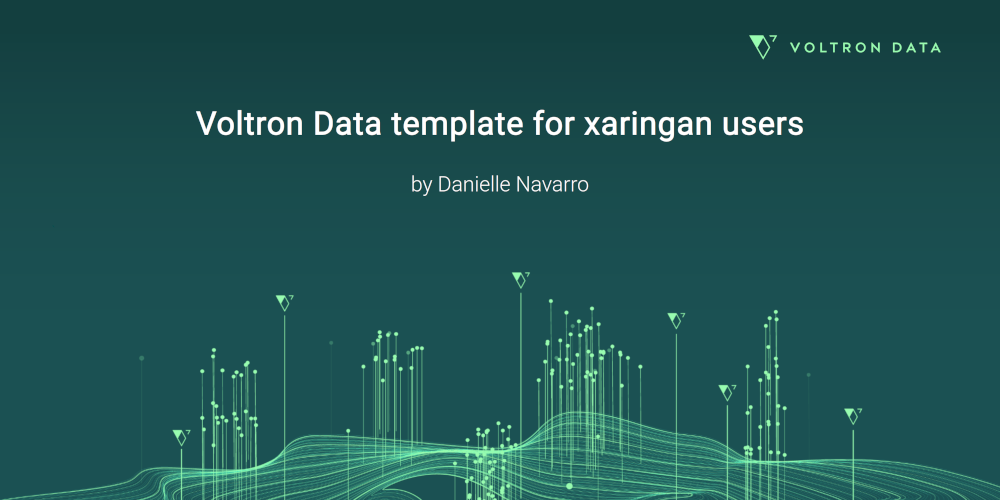
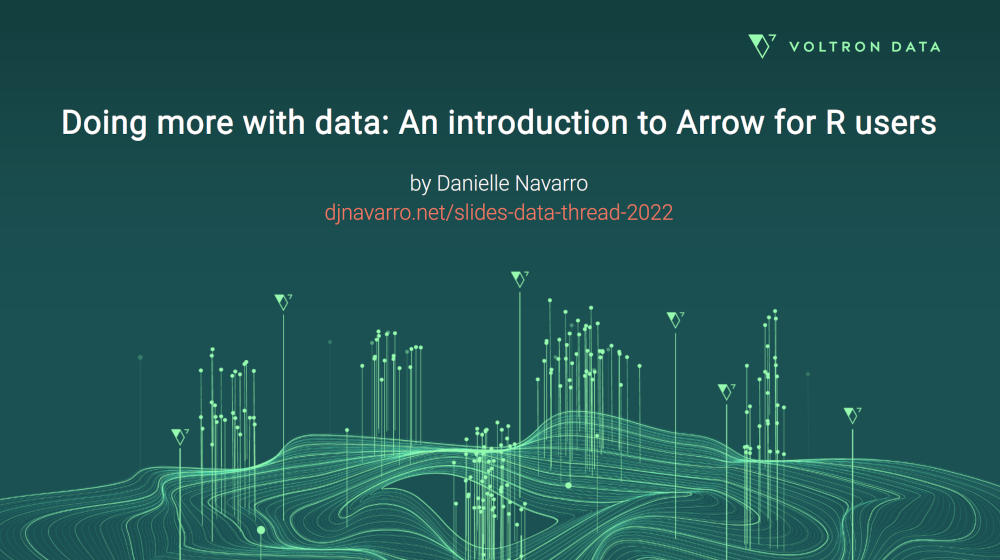
fixes social media preview

diff --git a/index.html b/index.html
@@ -6,18 +6,18 @@
     <script src="libs/header-attrs/header-attrs.js"></script>
     <meta name="github-repo" content="djnavarro/slides-data-thread-2022"/>
     <meta name="twitter:title" content="Doing more with data: An introduction to Arrow for R users"/>
-    <meta name="twitter:description" content="An example slide deck using the Voltron Data template for xaringan"/>
-    <meta name="twitter:url" content="https://djnavarro.net/xaringan-template-voltrondata"/>
-    <meta name="twitter:image" content="https://djnavarro.net/xaringan-template-voltrondata/img/title-slide-image.png"/>
-    <meta name="twitter:image:alt" content="Image showing the title slide. The title in white reads &#39;Voltron Data template for xaringan users&#39;, with &#39;by Danielle Navarro&#39; immediately underneath. The background is dark green, with the Voltron Data &#39;data lake&#39; image shown in light green below the title, and the company logo shown in light green in the top right corner"/>
+    <meta name="twitter:description" content="Slides for a talk on using Apache Arrow in R, presented as part of The Data Thread 2022 conference"/>
+    <meta name="twitter:url" content="https://djnavarro.net/slides-data-thread-2022"/>
+    <meta name="twitter:image" content="https://djnavarro.net/slides-data-thread-2022/img/title-slide-image.png"/>
+    <meta name="twitter:image:alt" content="Image showing the title slide. The title in white reads &#39;Doing more with data: An introduction to Arrow for R users&#39;, with &#39;by Danielle Navarro&#39; immediately underneath. The background is dark green, with the Voltron Data &#39;data lake&#39; image shown in light green below the title, and the company logo shown in light green in the top right corner"/>
     <meta name="twitter:card" content="summary_large_image"/>
     <meta name="twitter:creator" content="@djnavarro"/>
     <meta name="twitter:site" content="@djnavarro"/>
     <meta property="og:title" content="Doing more with data: An introduction to Arrow for R users"/>
-    <meta property="og:description" content="An example slide deck using the Voltron Data template for xaringan"/>
-    <meta property="og:url" content="https://djnavarro.net/xaringan-template-voltrondata"/>
-    <meta property="og:image" content="https://djnavarro.net/xaringan-template-voltrondata/img/title-slide-image.png"/>
-    <meta property="og:image:alt" content="Image showing the title slide. The title in white reads &#39;Voltron Data template for xaringan users&#39;, with &#39;by Danielle Navarro&#39; immediately underneath. The background is dark green, with the Voltron Data &#39;data lake&#39; image shown in light green below the title, and the company logo shown in light green in the top right corner"/>
+    <meta property="og:description" content="Slides for a talk on using Apache Arrow in R, presented as part of The Data Thread 2022 conference"/>
+    <meta property="og:url" content="https://djnavarro.net/slides-data-thread-2022"/>
+    <meta property="og:image" content="https://djnavarro.net/slides-data-thread-2022/img/title-slide-image.png"/>
+    <meta property="og:image:alt" content="Image showing the title slide. The title in white reads &#39;Doing more with data: An introduction to Arrow for R users&#39;, with &#39;by Danielle Navarro&#39; immediately underneath. The background is dark green, with the Voltron Data &#39;data lake&#39; image shown in light green below the title, and the company logo shown in light green in the top right corner"/>
     <meta property="og:type" content="website"/>
     <meta property="og:locale" content="en_US"/>
     <meta property="article:author" content="Danielle Navarro"/>
@@ -1056,12 +1056,12 @@ nyc_taxi |&gt;
 ## # A tibble: 6 × 8
 ##   pickup_datetime     pickup_longitude pickup_latitude pickup_location_id
 ##   &lt;dttm&gt;                         &lt;dbl&gt;           &lt;dbl&gt;              &lt;int&gt;
-## 1 2019-10-02 06:41:22               NA              NA                144
-## 2 2019-10-02 06:53:46               NA              NA                246
-## 3 2019-10-02 06:05:22               NA              NA                158
-## 4 2019-10-02 06:19:59               NA              NA                261
-## 5 2019-10-02 06:45:45               NA              NA                229
-## 6 2019-10-02 06:03:44               NA              NA                164
+## 1 2019-01-02 03:11:05               NA              NA                233
+## 2 2019-01-02 02:56:45               NA              NA                186
+## 3 2019-01-02 03:18:28               NA              NA                114
+## 4 2019-01-02 03:25:43               NA              NA                234
+## 5 2019-01-02 03:51:35               NA              NA                246
+## 6 2019-01-02 03:51:54               NA              NA                211
 ## # … with 4 more variables: dropoff_datetime &lt;dttm&gt;, dropoff_longitude &lt;dbl&gt;,
 ## #   dropoff_latitude &lt;dbl&gt;, dropoff_location_id &lt;int&gt;
 ```
@@ -1075,12 +1075,12 @@ nyc_taxi |&gt;
 ## # A tibble: 6 × 8
 ##   pickup_datetime     pickup_longitude pickup_latitude pickup_location_id
 ##   &lt;dttm&gt;                         &lt;dbl&gt;           &lt;dbl&gt;              &lt;int&gt;
-## 1 2019-11-01 15:10:52               NA              NA                 79
-## 2 2019-11-01 15:03:26               NA              NA                 68
-## 3 2019-11-01 15:10:34               NA              NA                 68
-## 4 2019-11-01 15:10:34               NA              NA                 68
-## 5 2019-11-01 15:14:44               NA              NA                265
-## 6 2019-11-01 15:23:41               NA              NA                265
+## 1 2019-12-01 22:45:18               NA              NA                114
+## 2 2019-12-01 22:04:02               NA              NA                263
+## 3 2019-12-01 22:20:38               NA              NA                 75
+## 4 2019-12-01 22:46:36               NA              NA                 75
+## 5 2019-12-01 22:13:05               NA              NA                107
+## 6 2019-12-01 22:32:19               NA              NA                231
 ## # … with 4 more variables: dropoff_datetime &lt;dttm&gt;, dropoff_longitude &lt;dbl&gt;,
 ## #   dropoff_latitude &lt;dbl&gt;, dropoff_location_id &lt;int&gt;
 
